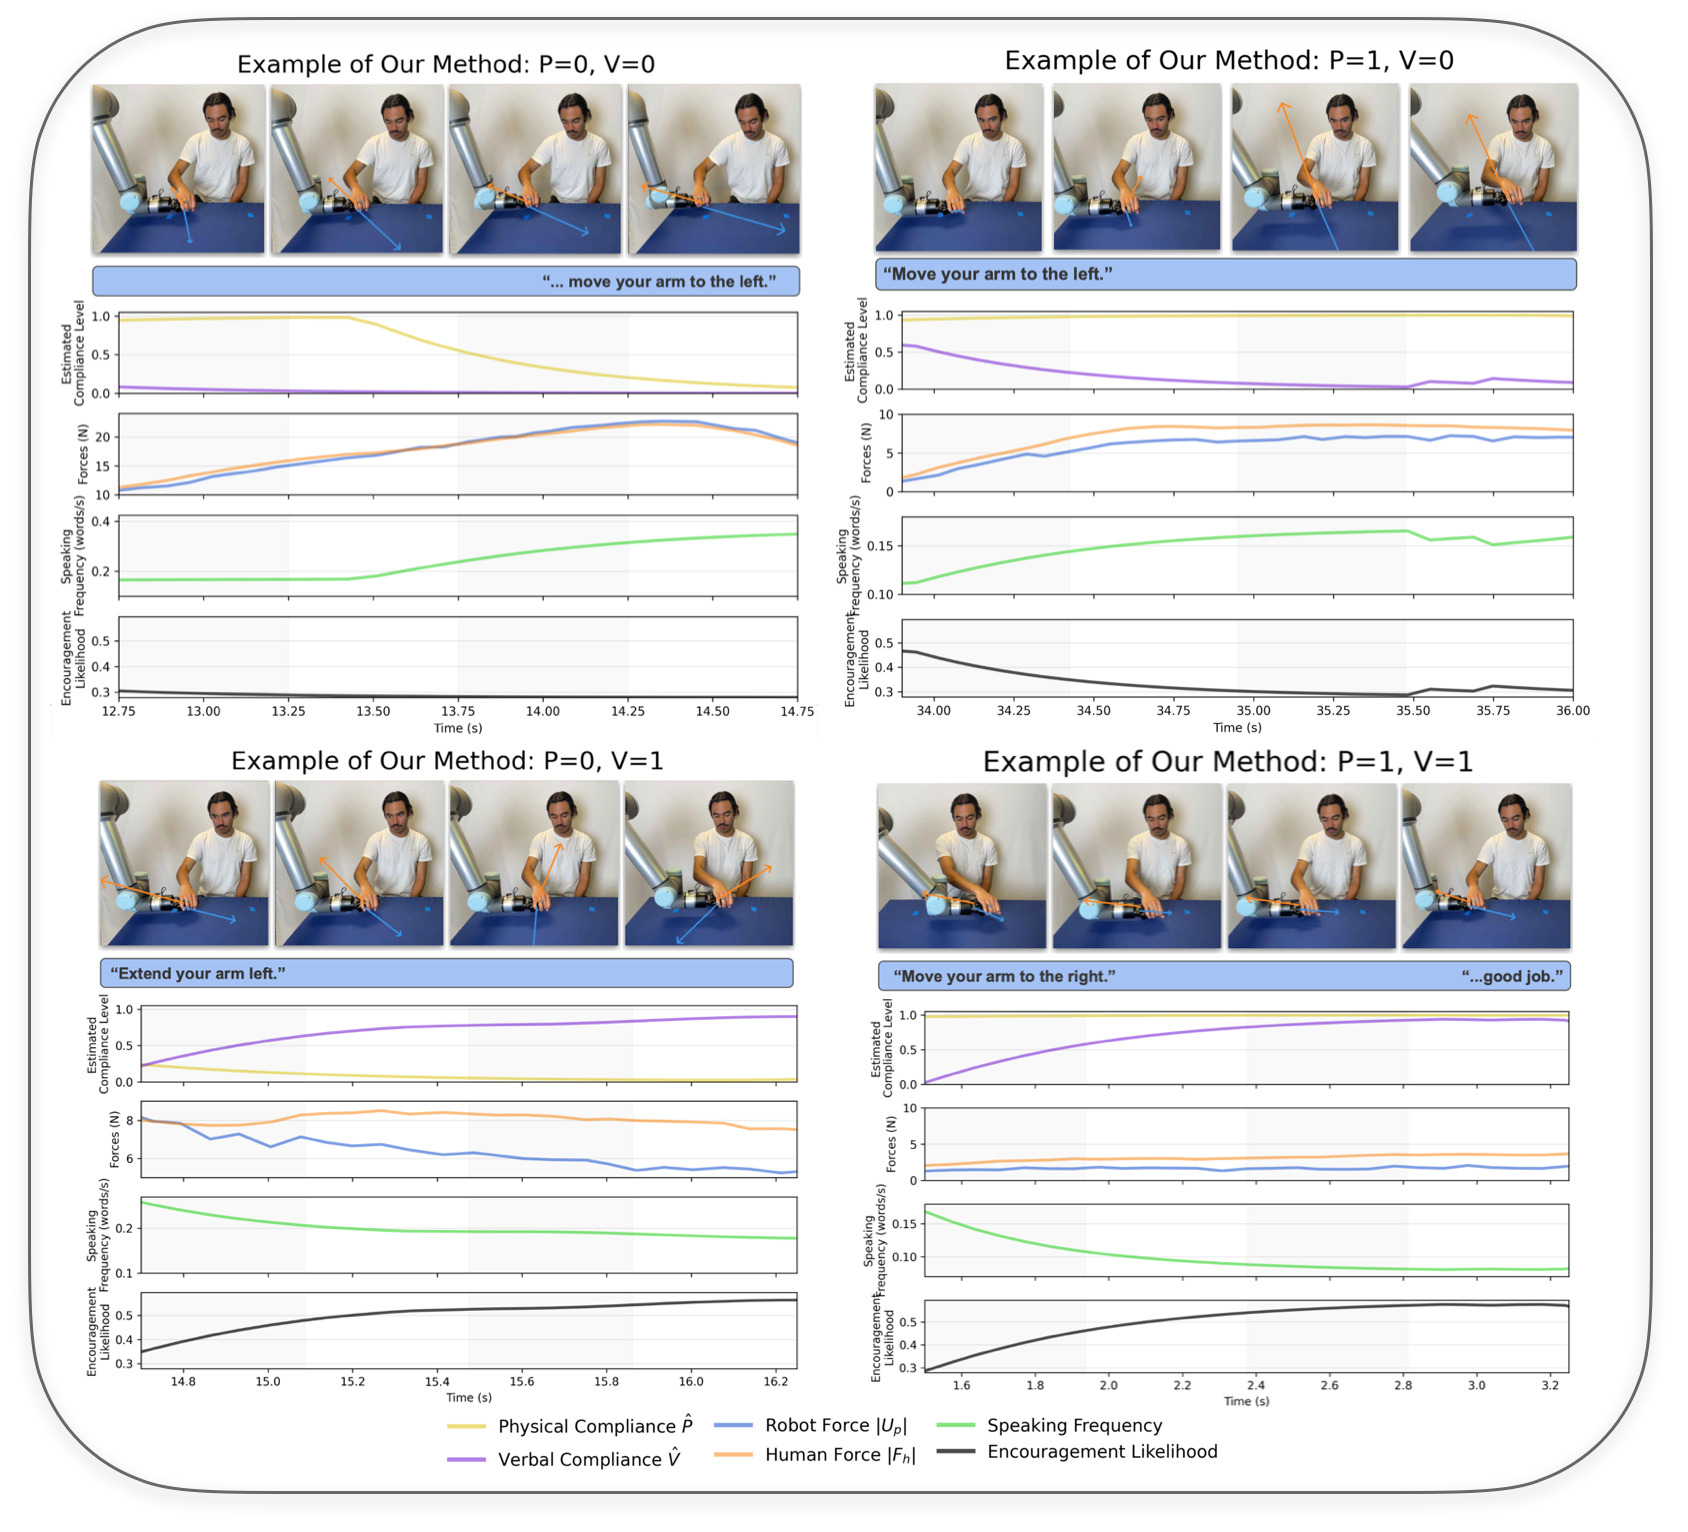
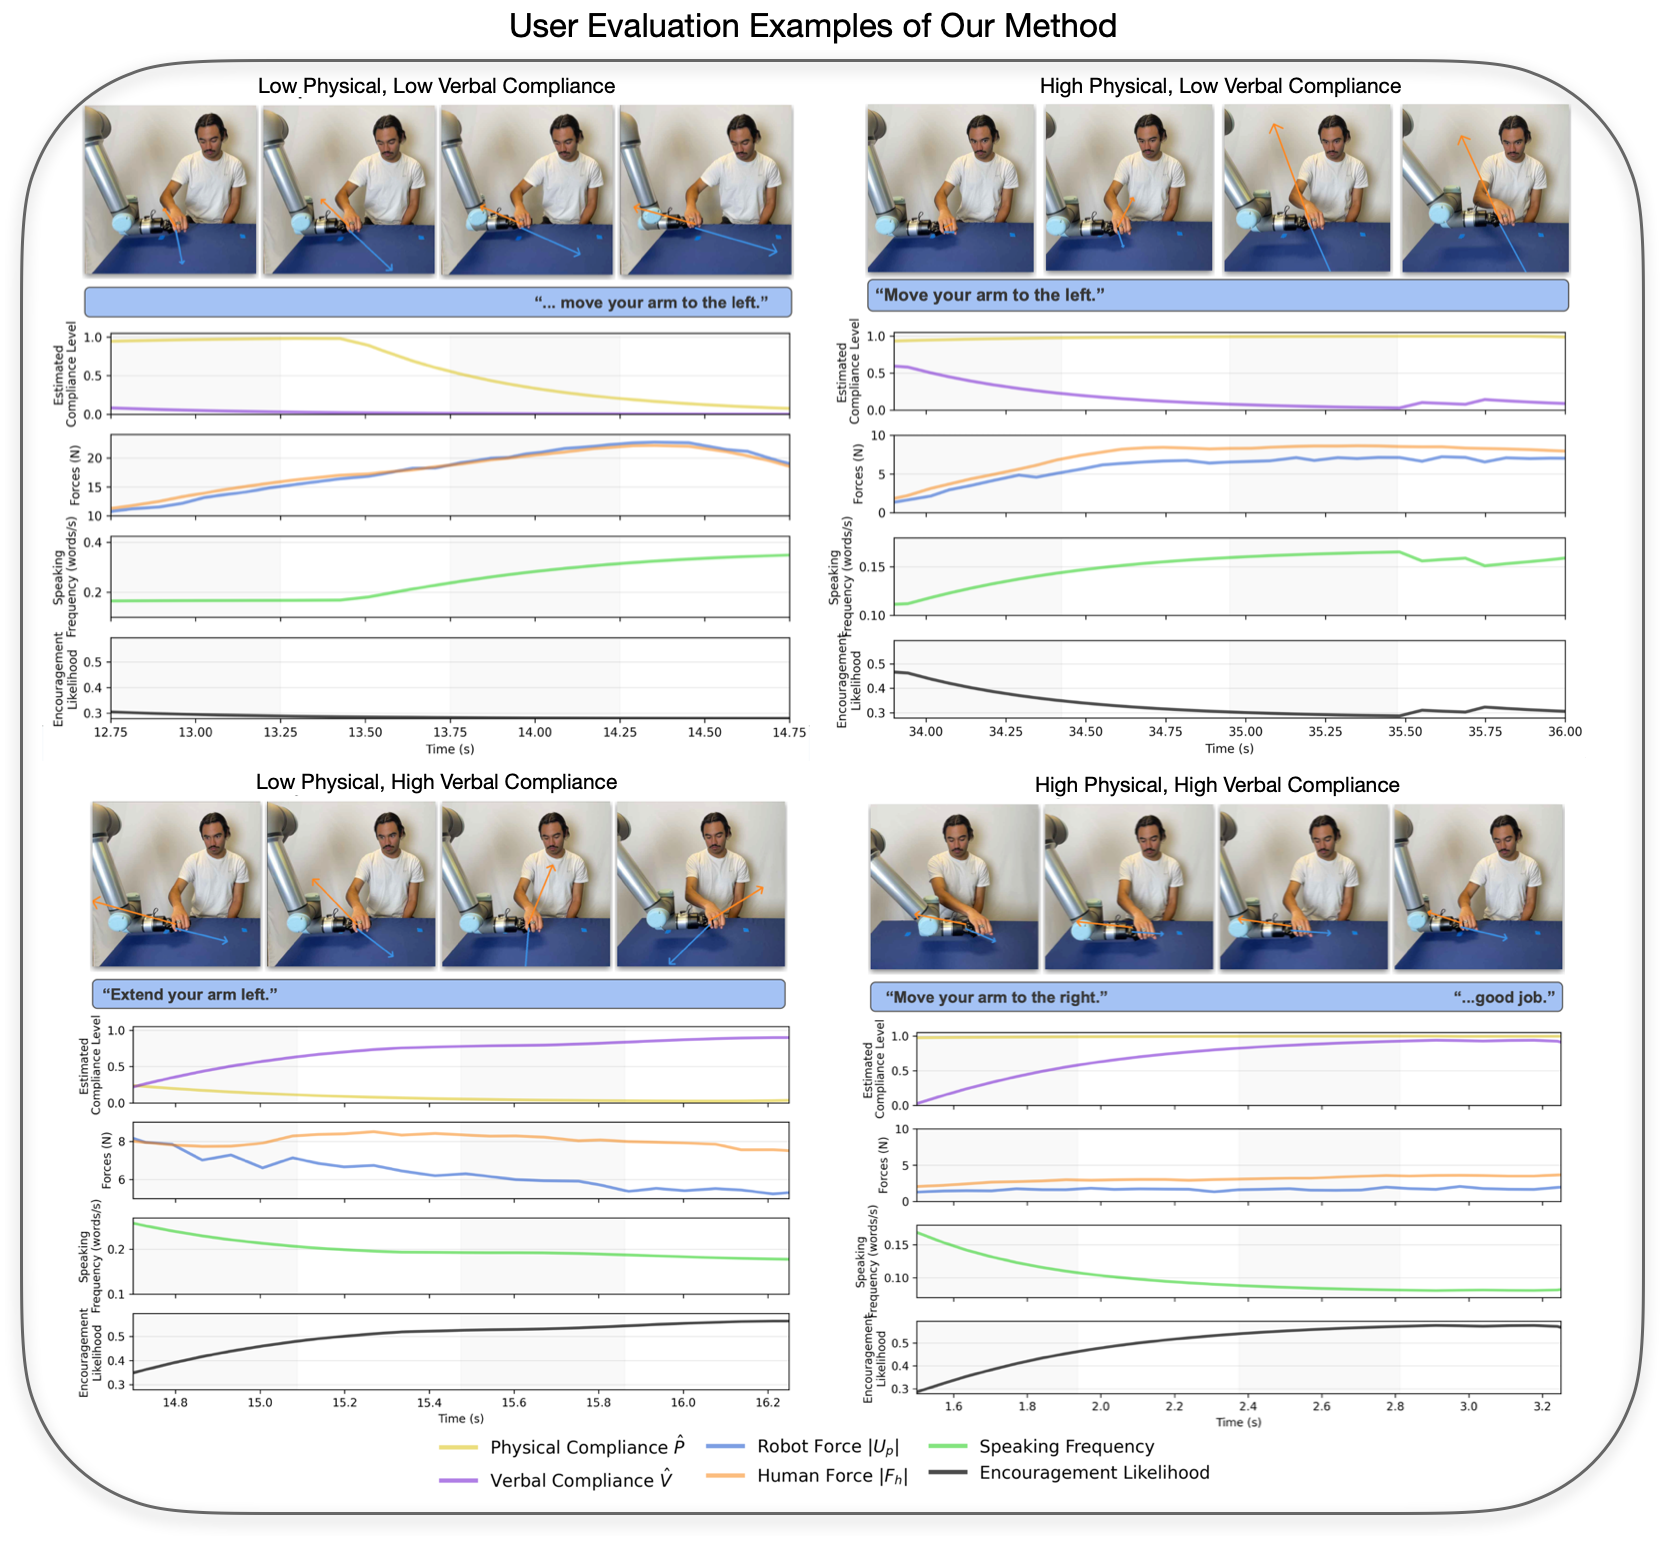
updated results

Changed region(s): [[0.0, 0.0, 0.9928, 0.9817], [0.9308, 0.9204, 0.9618, 0.951]]

diff --git a/pages/results.md b/pages/results.md
@@ -43,23 +43,23 @@ We evaluated our methods using the following metrics:
 
 ## Highlights
 
-<strong>Our method achieves superior task completion than the simple baseline method:</strong>
-
-<figure>
-    <img src="/assets/images/figures/results_overall_B1_vs_ours.png" alt="Results Overall Baseline 1 vs. Our Method" width="100%">
-    <figcaption style="text-align: center;"><br/></figcaption>
-</figure>
-
 <strong>We show multimodal (physical and verbal) guidance outperforms unimodal (physical or verbal) guidance:</strong>
 
 <figure>
     <img src="/assets/images/figures/results_overall_B1.png" alt="Results Overall Single Mode vs. Multimodal Guidance" width="100%">
-    <figcaption style="text-align: center;"><br/></figcaption>
+    <figcaption style="text-align: center;"><br/>Performance of verbal-only (green), physical-only (blue), and combined guidance (orange) across varying compliance regimes. Each subplot shows a different evaluation metric: position error (top left), velocity error (top right), velocity smoothness (bottom left), and task completion time (bottom right). Bars are grouped by compliance condition: single-modality conditions (first and second clusters) and combined-modality conditions under all four combinations of physical (P) and verbal (V) compliance (third cluster). Error bars indicate 95\% confidence intervals. Statistically significant differences are marked with standard notation (* \(p < 0.05\), ** \(p < 0.01\), *** \(p < 0.001\), **** \(p < 0.0001\), ns = not significant). Results show that performance improves with compliance, and combining modalities helps most when one is ignored—allowing the other to compensate.</figcaption>
+</figure>
+
+<strong>Our method achieves superior task completion than the simple baseline method:</strong>
+
+<figure>
+    <img src="/assets/images/figures/results_overall_B1_vs_ours.png" alt="Results Overall Baseline 1 vs. Our Method" width="100%">
+    <figcaption style="text-align: center;"><br/>Comparison between our adaptive Robot Guidance Controller (red) and the fixed-weight baseline controller (orange) across all four compliance regimes. Each subplot presents a separate evaluation metric: position error (top left), velocity error (top right), velocity smoothness (bottom left), and task completion time (bottom right). Bars are grouped by compliance condition: combinations of physical (P) and verbal (V) compliance ranging from full noncompliance (P=0, V=0) to full compliance (P=1, V=1). Error bars indicate 95\% confidence intervals. Statistical significance is marked above each pairwise comparison (* \(p < 0.05\), ** \(p < 0.01\), **** \(p < 0.0001\), ns = not significant). Our method outperforms the baseline in low-compliance regimes, where adaptive reallocation of guidance helps compensate for unattended modalities; differences taper under full compliance as both methods converge near ceiling performance.</figcaption>
 </figure>
 
 <strong>A snippet deep diving into the real-time interaction between a user and our method:</strong>
 
 <figure>
     <img src="/assets/images/figures/example_ours.png" alt="Single User Using Our Method Deep Dive Example" width="100%">
-    <figcaption style="text-align: center;"><br/></figcaption>
+    <figcaption style="text-align: center;"><br/>Examples of our Robot Guidance Controller adapting physical and verbal guidance across four compliance regimes. Each quadrant shows a time snippet of a single user trial under different combinations of physical ($P$) and verbal ($V$) compliance states. In the low compliance regime \((0,0)\), the controller increases speaking frequency and delivers strongly directive utterances while maintaining high corrective force. As verbal compliance increases \((0,1)\), speech becomes less frequent and language remains instructive, while force is moderated. In the reverse case \((1,0)\), physical guidance dominates, and verbal cues remain frequent but more redundant. Under full compliance \((1,1)\), the controller decreases both force and speaking frequency, and transitions toward encouraging feedback, matching expert therapist behavior observed. These examples highlight the system’s real-time adaptation in both intensity and content of guidance, driven by compliance estimation and optimization.</figcaption>
 </figure>
